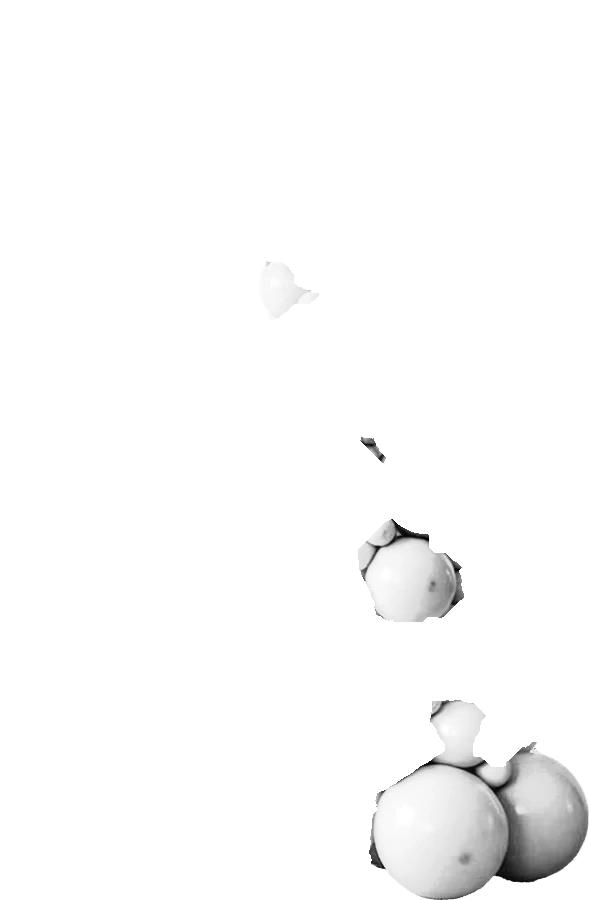
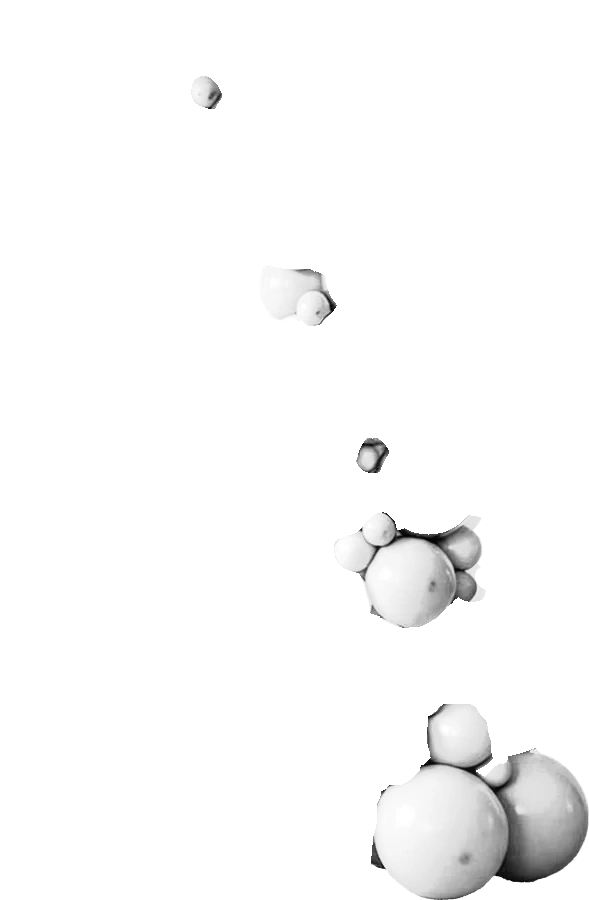
Welcome board: her A1 board as the default, a cleaner garland in any colours
- Default board: A1, rectangle, plain white, the handwritten name (Sacramento),
  a balloon garland on an easel, "Birthday Party" underneath (AED 470).
- Garland split by hand-placed balloons, so each balloon is one colour (no
  puzzle pieces); white balloons keep a soft shine instead of flat white
  patches; paler colours get softer shade; near-duplicate theme colours
  (Ice Princess's two whites) count once.

diff --git a/scripts/welcome/garland-split.ts b/scripts/welcome/garland-split.ts
@@ -15,12 +15,30 @@ const MANIFEST = "lib/studio/welcomePieces.json";
 export const LAYERS = ["white", "pink", "blue", "lilac", "chrome"] as const;
 /** Where a latex balloon's own colour sits in its grey layer: lighter is its shine, darker its shade. */
 const BODY = 0.86;
-/** How sharp a change in colour is a balloon's outline (summed Sobel over R, G and B). */
-const EDGE = +(process.env.EDGE ?? 45);
-/** How far (px) both balloons must rise above the neck between them to stay apart. */
-const NECK = +(process.env.NECK ?? 4);
 /** The chrome balls in the photo (px: middle, radius). */
 const CHROME: [number, number, number][] = [[265, 63, 18], [255, 126, 44], [369, 275, 44], [372, 391, 47], [428, 484, 50]];
+type Latex = Exclude<(typeof LAYERS)[number], "chrome">;
+/** The latex balloons in the photo, by hand (px: middle, radius, colour; "front": in front of all it overlaps). */
+const BALLOONS: [number, number, number, Latex, "front"?][] = [
+  // The top, left to right.
+  [42, 86, 47, "white"], [96, 135, 37, "white"], [128, 55, 45, "white"], [82, 85, 15, "blue"],
+  [210, 55, 42, "pink"], [171, 133, 42, "pink"], [205, 92, 16, "lilac"],
+  [330, 48, 62, "white"], [296, 90, 16, "blue"], [416, 148, 57, "white"], [460, 215, 14, "white"],
+  // Down the column.
+  [332, 152, 38, "blue"], [286, 177, 17, "blue"], [321, 177, 17, "blue"], [362, 192, 32, "white"],
+  [258, 193, 38, "blue"], [298, 231, 41, "blue"], [436, 258, 42, "pink"], [290, 290, 30, "lilac"],
+  [315, 310, 16, "lilac"], [339, 331, 19, "pink"], [296, 355, 40, "pink"], [371, 338, 13, "pink"],
+  [436, 340, 50, "white"], [472, 413, 52, "blue"], [433, 411, 14, "blue"], [300, 430, 35, "white"],
+  [325, 431, 15, "pink"], [341, 451, 16, "pink"], [369, 459, 12, "lilac"], [290, 483, 18, "blue"],
+  [336, 500, 39, "blue"], [392, 505, 22, "blue"], [378, 529, 17, "lilac"], [355, 550, 20, "lilac"],
+  [466, 550, 18, "lilac"], [410, 580, 45, "lilac"], [300, 575, 40, "pink"], [336, 600, 31, "white"],
+  [470, 585, 15, "lilac"], [480, 580, 10, "white"],
+  // The foot.
+  [452, 655, 52, "pink"], [505, 710, 42, "pink"], [377, 656, 38, "white"], [327, 646, 17, "pink"],
+  [300, 683, 52, "blue"], [424, 697, 17, "blue"], [381, 740, 46, "blue"], [463, 735, 35, "lilac"],
+  [493, 770, 18, "pink"], [248, 783, 76, "white"], [305, 812, 72, "pink", "front"], [441, 833, 67, "lilac"],
+  [535, 818, 62, "lilac"],
+];
 
 (async () => {
   const { data, info } = await sharp(path.join(OUT, "garland-pastel.webp")).ensureAlpha().raw().toBuffer({ resolveWithObject: true });
@@ -44,95 +62,49 @@ const CHROME: [number, number, number][] = [[265, 63, 18], [255, 126, 44], [369,
     else if (hue >= 238 && hue < 330) label[i] = 3;
     else label[i] = 0;
   }
-  // Tidied: each point takes the group most of its neighbours are in (a balloon is one colour throughout).
-  const M = 14, tidy = new Int8Array(N).fill(-1);
+  // Tidied a little: each point takes the group most of its near neighbours are in (shade and shine read
+  // as other colours point by point).
+  const M = 5, tidy = new Int8Array(N).fill(-1);
   for (let y = 0; y < H; y++) for (let x = 0; x < W; x++) {
     const i = y * W + x;
-    if (label[i] < 0) continue;
-    if (label[i] === 4) { tidy[i] = 4; continue; }
-    const votes = [0, 0, 0, 0, 0];
-    for (let dy = -M; dy <= M; dy += 2) for (let dx = -M; dx <= M; dx += 2) {
-      if (dx * dx + dy * dy > M * M) continue;
+    if (label[i] < 0 || label[i] === 4) { tidy[i] = label[i]; continue; }
+    const votes = [0, 0, 0, 0];
+    for (let dy = -M; dy <= M; dy++) for (let dx = -M; dx <= M; dx++) {
       const xx = x + dx, yy = y + dy;
-      if (xx < 0 || yy < 0 || xx >= W || yy >= H) continue;
+      if (dx * dx + dy * dy > M * M || xx < 0 || yy < 0 || xx >= W || yy >= H) continue;
       const k = label[yy * W + xx]; if (k >= 0 && k < 4) votes[k]++;
     }
-    tidy[i] = votes.indexOf(Math.max(...votes)) as number;
+    tidy[i] = votes.indexOf(Math.max(...votes));
   }
-  // Then one colour for each balloon (tinted strongly, a balloon in two colours showed as a puzzle piece):
-  // the balloons are the patches between the photo's outlines, each taking the colour most of it has; the
-  // outlines themselves the colour of the balloon beside them.
-  const soft = await sharp(path.join(OUT, "garland-pastel.webp")).removeAlpha().blur(1.2).raw().toBuffer();
-  const edge = new Uint8Array(N);
-  for (let y = 1; y < H - 1; y++) for (let x = 1; x < W - 1; x++) {
-    let g = 0;
-    for (let c = 0; c < 3; c++) {
-      const at = (dx: number, dy: number) => soft[((y + dy) * W + x + dx) * 3 + c];
-      const gx = at(1, -1) + 2 * at(1, 0) + at(1, 1) - at(-1, -1) - 2 * at(-1, 0) - at(-1, 1);
-      const gy = at(-1, 1) + 2 * at(0, 1) + at(1, 1) - at(-1, -1) - 2 * at(0, -1) - at(1, -1);
-      g += Math.hypot(gx, gy);
-    }
-    edge[y * W + x] = g > EDGE ? 1 : 0;
-  }
-  // Touching balloons whose outline is too soft to find still meet at a narrow neck: each patch is split
-  // there (a watershed of how far each point is from the patch's edge), one piece for each balloon.
-  const inside = (i: number) => !edge[i] && tidy[i] >= 0 && tidy[i] !== 4 && data[i * 4 + 3] >= 128;
-  const dist = new Float32Array(N);
-  for (let i = 0; i < N; i++) dist[i] = inside(i) ? 1e9 : 0;
-  const pass = (order: number[], steps: [number, number, number][]) => {
-    for (const i of order) {
-      if (!dist[i]) continue;
-      const x = i % W, y = (i - x) / W;
-      for (const [dx, dy, c] of steps) {
-        const xx = x + dx, yy = y + dy;
-        if (xx >= 0 && yy >= 0 && xx < W && yy < H) dist[i] = Math.min(dist[i], dist[yy * W + xx] + c);
-      }
-    }
-  };
-  const all = Array.from({ length: N }, (_, i) => i);
-  pass(all, [[-1, 0, 1], [0, -1, 1], [-1, -1, 1.414], [1, -1, 1.414]]);
-  pass(all.reverse(), [[1, 0, 1], [0, 1, 1], [1, 1, 1.414], [-1, 1, 1.414]]);
-  // Flooded from the deepest points down; two pieces meeting stay apart when both rise well above the neck.
-  const region = new Int32Array(N).fill(-1), peak: number[] = [], parent: number[] = [];
-  const root = (a: number): number => (parent[a] === a ? a : (parent[a] = root(parent[a])));
-  const byDepth = all.filter(inside).sort((a, b) => dist[b] - dist[a]);
-  for (const i of byDepth) {
-    const x = i % W, near = new Set<number>();
-    for (const j of [x > 0 ? i - 1 : -1, x < W - 1 ? i + 1 : -1, i - W, i + W]) if (j >= 0 && j < N && region[j] >= 0) near.add(root(region[j]));
-    if (!near.size) { region[i] = peak.length; parent.push(peak.length); peak.push(dist[i]); continue; }
-    const pieces = Array.from(near).sort((a, b) => peak[b] - peak[a]);
-    region[i] = pieces[0];
-    for (const other of pieces.slice(1)) if (peak[other] - dist[i] < NECK) parent[other] = pieces[0];
-  }
-  const sizes = new Map<number, number>(), votesOf = new Map<number, number[]>();
-  for (const i of byDepth) {
-    const r = root(region[i]); region[i] = r;
-    sizes.set(r, (sizes.get(r) ?? 0) + 1);
-    const v = votesOf.get(r) ?? [0, 0, 0, 0]; v[tidy[i]]++; votesOf.set(r, v);
-  }
-  if (process.env.REGIONS) {
-    const map = Buffer.alloc(N * 3, 200);
-    for (const i of byDepth) { const r = region[i] * 2654435761; map[i * 3] = r & 255; map[i * 3 + 1] = (r >> 8) & 255; map[i * 3 + 2] = (r >> 16) & 255; }
-    await sharp(map, { raw: { width: W, height: H, channels: 3 } }).png().toFile(process.env.REGIONS);
-  }
+  // Then each balloon one colour throughout (found point by point, a balloon came out in two colours, a
+  // puzzle piece once tinted): every latex balloon in the photo by hand, a circle with its colour. A point
+  // in a colour goes to the balloon over it in that colour (the one it is deepest inside); a point with next
+  // to no colour (white, or any balloon's shine) to the one it is deepest inside; a point under none to the
+  // nearest.
   const final = new Int8Array(N).fill(-1);
   for (let i = 0; i < N; i++) {
-    if (tidy[i] === 4) final[i] = 4;
-    else if (region[i] >= 0 && sizes.get(region[i])! >= 60) { const v = votesOf.get(region[i])!; final[i] = v.indexOf(Math.max(...v)); }
+    if (tidy[i] < 0 || tidy[i] === 4) { final[i] = tidy[i]; continue; }
+    const x = i % W, y = (i - x) / W;
+    let best = -1, bestD = Infinity, own = -1, ownD = Infinity, near = -1, nearD = Infinity;
+    const front = BALLOONS.findIndex(([cx, cy, r, , f]) => f && Math.hypot(x - cx, y - cy) < r);
+    if (front >= 0) { final[i] = LAYERS.indexOf(BALLOONS[front][3]); continue; }
+    BALLOONS.forEach(([cx, cy, r, k], n) => {
+      const d = Math.hypot(x - cx, y - cy) / r;
+      if (d - 1 < nearD) { nearD = d - 1; near = n; }
+      if (d > 1.06) return;
+      if (d < bestD) { bestD = d; best = n; }
+      if (tidy[i] > 0 && LAYERS.indexOf(k) === tidy[i] && d < ownD) { ownD = d; own = n; }
+    });
+    const pick = own >= 0 ? own : best >= 0 ? best : near;
+    final[i] = LAYERS.indexOf(BALLOONS[pick][3]);
   }
-  // The outlines and crumbs: from the nearest balloon, growing outwards a ring at a time.
-  for (let ring = 0, open = true; open && ring < 40; ring++) {
-    open = false;
-    const grown = final.slice();
-    for (let i = 0; i < N; i++) {
-      if (final[i] >= 0 || tidy[i] < 0) continue;
-      const x = i % W;
-      for (const j of [x > 0 ? i - 1 : -1, x < W - 1 ? i + 1 : -1, i - W, i + W]) if (j >= 0 && j < N && final[j] >= 0 && final[j] < 4) { grown[i] = final[j]; break; }
-      if (grown[i] < 0) open = true;
-    }
-    final.set(grown);
+  if (process.env.REGIONS) {
+    const tone = [[245, 237, 214], [239, 68, 68], [37, 99, 235], [31, 41, 55], [160, 160, 160]];
+    const map = Buffer.alloc(N * 3, 220);
+    for (let i = 0; i < N; i++) if (final[i] >= 0) tone[final[i]].forEach((v, c) => (map[i * 3 + c] = Math.round(v * (0.55 + 0.45 * lum[i]))));
+    await sharp(map, { raw: { width: W, height: H, channels: 3 } }).png().toFile(process.env.REGIONS);
   }
-  for (let i = 0; i < N; i++) if (tidy[i] >= 0) tidy[i] = final[i] >= 0 ? final[i] : tidy[i];
+  for (let i = 0; i < N; i++) tidy[i] = final[i];
   const manifest = JSON.parse(readFileSync(MANIFEST, "utf8")) as Record<string, unknown>;
   for (let k = 0; k < LAYERS.length; k++) {
     const own: number[] = [];

diff --git a/tests/unit/party-parts.test.ts b/tests/unit/party-parts.test.ts
@@ -55,21 +55,22 @@ describe("the grown-ups' table", () => {
 describe("the welcome board", () => {
   it("prices the size, an acrylic board and the easel", () => {
     const b = defaultWelcomeBoard(frozen);
-    expect(welcomePriceLines(b)).toEqual([{ label: "Welcome board, Medium 70 × 100 cm", amount: 250 }, { label: "Easel", amount: 40 }]);
-    expect(welcomeTotal({ ...b, size: "large", material: "acrylic", stand: "none" })).toBe(320 + 150);
+    // Her A1 board with a balloon garland first (2026-11-01).
+    expect(welcomePriceLines(b)).toEqual([{ label: "Welcome board, A1 60 × 84 cm", amount: 180 }, { label: "Easel", amount: 40 }, { label: "Balloon garland on the board", amount: 250 }]);
+    expect(welcomeTotal({ ...b, size: "large", material: "acrylic", stand: "none", garnish: "none" })).toBe(320 + 150);
     expect(welcomePriceLines({ ...b, enabled: false })).toEqual([]);
-    expect(priceBreakdown({ ...base(), welcomeBoard: b }).total).toBe(priceBreakdown(base()).total + 290);
+    expect(priceBreakdown({ ...base(), welcomeBoard: b }).total).toBe(priceBreakdown(base()).total + 470);
   });
   it("balloons or flowers on the board add their price; a round board is as tall as it is wide", () => {
-    const b = defaultWelcomeBoard(frozen);
-    expect(b.garnish).toBe("none");
+    const b = { ...defaultWelcomeBoard(frozen), size: "medium", garnish: "none" as const };
+    expect(defaultWelcomeBoard(frozen)).toMatchObject({ shape: "rectangle", design: "plain", colour: "#FFFFFF", font: "sacramento", garnish: "balloons", line: "Birthday Party" });
     expect(welcomePriceLines({ ...b, garnish: "both" })).toContainEqual({ label: "Balloons & flowers on the board", amount: 380 });
     expect(welcomeTotal({ ...b, garnish: "balloons" })).toBe(welcomeTotal(b) + 250);
     expect(welcomeTotal({ ...b, garnish: "flowers" })).toBe(welcomeTotal(b) + 180);
     expect(boardFace({ size: "medium", shape: "round" })).toEqual({ w: 70, h: 70, note: "Ø 70 cm" });
     expect(welcomePriceLines({ ...b, shape: "round" })[0]).toEqual({ label: "Welcome board, round Ø 70 cm", amount: 250 });
     expect(readWelcomeBoard({ shape: "round", garnish: "both" }, frozen)).toMatchObject({ shape: "round", garnish: "both" });
-    expect(readWelcomeBoard({ garnish: "fireworks" }, frozen)!.garnish).toBe("none");
+    expect(readWelcomeBoard({ garnish: "fireworks" }, frozen)!.garnish).toBe("balloons");
   });
   it("the words never run into each other: stacked with a gap, a line too wide made smaller (2026-10-31)", () => {
     const space = { y0: 20, y1: 90, maxW: 56 };
@@ -103,7 +104,7 @@ describe("the welcome board", () => {
     expect(cleanBoardText("<b>Arya's</b>   party")).toBe("bArya'sb party");
     expect(cleanBoardText("x".repeat(80))).toHaveLength(30);
     const b = readWelcomeBoard({ size: "huge", shape: "star", design: "plain", colour: "#123456", name: "Arya's", font: "comic", textColor: "blue" }, frozen)!;
-    expect(b).toMatchObject({ size: "medium", shape: "arch", design: "plain", colour: "#123456", name: "Arya's", font: "birthstone-bounce", garnish: "none" });
+    expect(b).toMatchObject({ size: "a1", shape: "rectangle", design: "plain", colour: "#123456", name: "Arya's", font: "sacramento", garnish: "balloons" });
     expect(b.textColor).toBeUndefined();
   });
 });
@@ -129,6 +130,8 @@ describe("the welcome board's photo pieces", () => {
     expect(Object.values(frozen.latex).every((c) => themeById("frozen")!.balloonColors.includes(c))).toBe(true);
     expect(frozen.latex.white).toMatch(/^#(FFFFFF|F0F4F8)$/);
     expect(frozen.chrome).toBeNull();
+    // Its white and its ice white are one colour: once white, not half the garland (2026-11-01).
+    expect(Object.values(frozen.latex).filter((c) => c === "#FFFFFF" || c === "#F0F4F8")).toHaveLength(1);
     // The theme's pastels where the photo has them.
     expect(garlandColours(["#FFFFFF", "#F8BBD0", "#BAE6FD", "#DDD6FE"]).latex).toEqual({ white: "#FFFFFF", pink: "#F8BBD0", blue: "#BAE6FD", lilac: "#DDD6FE" });
     // The customer's own picks: every colour used, a short list going round again; gold chrome when picked.

diff --git a/tests/e2e/table-step.spec.ts b/tests/e2e/table-step.spec.ts
@@ -161,7 +161,12 @@ test("W1 the welcome board: words and lettering drawn live, priced, Finish goes 
   await page.getByTestId("welcome-line").fill("6th Birthday");
   await expect(board).toContainText("Arya's");
   await expect(board).toContainText("6TH BIRTHDAY");
-  // Painted corners first (2026-10-31, the owner's Frozen example), the theme's art, or a plain colour.
+  // Her board first (2026-11-01): plain white, the handwritten name, a balloon garland; painted corners, the
+  // theme's art, or a plain colour.
+  await expect(board.locator("[data-part=painted-corners]")).toHaveCount(0);
+  await expect(board.locator("[data-part=garland]")).toHaveCount(1);
+  await expect(page.getByTestId("welcome-font").getByRole("radio", { name: /Handwritten/ })).toHaveAttribute("aria-checked", "true");
+  await page.getByRole("radiogroup", { name: "Board design" }).getByRole("radio", { name: /Painted corners/ }).click();
   await expect(board.locator("[data-part=painted-corners]")).toHaveCount(1);
   await page.getByRole("radiogroup", { name: "Board design" }).getByRole("radio", { name: /Watercolour/ }).click();
   await expect(board.locator("[data-part=art]")).toHaveAttribute("href", "/design/table/placemats/frozen/watercolour.webp");
@@ -172,7 +177,7 @@ test("W1 the welcome board: words and lettering drawn live, priced, Finish goes 
   expect(aed(await total(page).textContent())).toBe(before + sum);
   await page.getByRole("radiogroup", { name: "Board size" }).getByRole("radio", { name: /Large/ }).click();
   await page.getByTestId("welcome-material").getByRole("radio", { name: /Acrylic/ }).click();
-  expect(aed(await page.getByTestId("welcome-total").locator("b").textContent())).toBe(sum + (320 - 250) + 150);
+  expect(aed(await page.getByTestId("welcome-total").locator("b").textContent())).toBe(sum + (320 - 180) + 150);
   // Round, and balloons with flowers on it (2026-10-31).
   await page.getByTestId("welcome-shape").getByRole("radio", { name: /Round/ }).click();
   await expect(board).toHaveAttribute("data-shape", "round");
@@ -189,7 +194,7 @@ test("W1 the welcome board: words and lettering drawn live, priced, Finish goes 
   for (const src of await board.locator("image").evaluateAll((l) => Array.from(new Set(l.map((i) => i.getAttribute("href")!))))) {
     expect((await page.request.get(src)).status(), src).toBe(200);
   }
-  expect(aed(await page.getByTestId("welcome-total").locator("b").textContent())).toBe(sum + (320 - 250) + 150 + 380);
+  expect(aed(await page.getByTestId("welcome-total").locator("b").textContent())).toBe(sum + (320 - 180) + 150 + (380 - 250));
   // The words, measured once drawn, never run into each other.
   await page.getByTestId("welcome-name").fill("Maximiliana-Josephine's");
   for (const font of ["Calligraphy", "Classic"]) {
@@ -217,7 +222,7 @@ test("W2 on a phone, a change to the welcome board brings it into sight, and Bac
   await page.getByRole("button", { name: /Yes, design the board/ }).click();
   await page.waitForTimeout(800);
   await expect(page.getByTestId("welcome-back-to-choices")).toHaveCount(0);
-  await page.getByTestId("welcome-garnish").getByRole("radio", { name: /Balloon garland/ }).click();
+  await page.getByTestId("welcome-garnish").getByRole("radio", { name: /Just the board/ }).click();
   await expect(page.getByTestId("welcome-preview").getByRole("img", { name: "Your welcome board" })).toBeInViewport();
   await page.getByTestId("welcome-back-to-choices").click();
   await expect(page.getByTestId("welcome-garnish")).toBeInViewport();

diff --git a/components/studio/WelcomeBoardArt.tsx b/components/studio/WelcomeBoardArt.tsx
@@ -235,14 +235,21 @@ function Roses({ x, y, width, turn, mirror }: { x: number; y: number; width: num
  * A garland layer (grey light and shade, its balloons' own colour at BODY) in a colour: multiplied by it, its
  * shine kept white. `grey` first takes the colour out (the chrome, photographed with the room's tints in it).
  */
+/** How light a balloon's own colour may be, its shine above it (the photo's white balloons are at 0.88). */
+const MAX_BODY = 0.88;
 function GarlandTint({ id, colour, gain = 1 / 0.86, grey }: { id: string; colour: string; gain?: number; grey?: boolean }) {
   // How white its shine goes: a dark balloon's shine is small (whitened as much as a pale one's, it went grey).
-  const [r, g, b] = rgb(colour), a = (0.55 / 0.14) * (0.25 + (0.75 * (0.3 * r + 0.59 * g + 0.11 * b)) / 255);
+  const [r, g, b] = rgb(colour), lum = (0.3 * r + 0.59 * g + 0.11 * b) / 255, a = (0.55 / 0.14) * (0.25 + 0.75 * lum);
+  // A white or near-white balloon is photographed a little grey, its shine the only white (at white itself,
+  // a balloon's whole lit half was flat white, with a hard edge).
+  const k = Math.min(1, MAX_BODY / Math.max(lum, 0.01)), body = `rgb(${[r, g, b].map((v) => Math.round(v * k)).join(",")})`;
+  // And its shade softer: a pale balloon's shadows as deep as a lilac one's read as grey, or as silver.
+  const soft = grey ? 1 : 1 - 0.35 * Math.min(1, Math.max(0, (lum - 0.6) / 0.35)), m = gain * soft, o = gain * (1 - soft) * 0.86;
   return (
     <filter id={id} x="0" y="0" width="100%" height="100%" colorInterpolationFilters="sRGB">
       {grey && <feColorMatrix in="SourceGraphic" type="saturate" values="0" result="src" />}
-      <feColorMatrix in={grey ? "src" : "SourceGraphic"} type="matrix" values={`${gain} 0 0 0 0 0 ${gain} 0 0 0 0 0 ${gain} 0 0 0 0 0 1 0`} result="lit" />
-      <feFlood floodColor={colour} result="c" />
+      <feColorMatrix in={grey ? "src" : "SourceGraphic"} type="matrix" values={`${f3(m)} 0 0 0 ${f3(o)} 0 ${f3(m)} 0 0 ${f3(o)} 0 0 ${f3(m)} 0 ${f3(o)} 0 0 0 1 0`} result="lit" />
+      <feFlood floodColor={grey ? colour : body} result="c" />
       <feComposite in="c" in2="lit" operator="arithmetic" k1={1} k2={0} k3={0} k4={0} result="t" />
       {/* Its shine: lighter than the balloon's own colour, a little whiter, smoothly (a sharp cut showed as pale patches). */}
       <feColorMatrix in={grey ? "src" : "SourceGraphic"} type="matrix" values={`0 0 0 0 1 0 0 0 0 1 0 0 0 0 1 ${f3(0.299 * a)} ${f3(0.587 * a)} ${f3(0.114 * a)} 0 ${f3(-0.86 * a)}`} result="hi" />

diff --git a/lib/studio/welcomeBoard.ts b/lib/studio/welcomeBoard.ts
@@ -86,11 +86,13 @@ export function cleanBoardText(v: unknown): string {
   return v.replace(/[\u0000-\u001f<>{}[\]\\/"`$^*=|~#%@+;:_]/g, "").replace(/\s+/g, " ").slice(0, MAX_BOARD_TEXT);
 }
 
-export function defaultWelcomeBoard(theme: { backdropColors: string[]; accent: string }): WelcomeBoard {
+// 2026-11-01 (owner, of her A1 board — rectangle, plain white, the handwritten name, a balloon garland,
+// "Birthday Party" under it: "default bu yazıtipi ve bu şekil vs gelsin").
+export function defaultWelcomeBoard(_theme: { backdropColors: string[]; accent: string }): WelcomeBoard {
   return {
-    enabled: true, size: "medium", shape: "arch", design: "corners",
-    colour: theme.backdropColors[0] ?? "#FFFFFF", material: "foam", stand: "easel", garnish: "none",
-    heading: "Welcome to", name: "", line: "", font: "birthstone-bounce",
+    enabled: true, size: "a1", shape: "rectangle", design: "plain",
+    colour: "#FFFFFF", material: "foam", stand: "easel", garnish: "balloons",
+    heading: "Welcome to", name: "", line: "Birthday Party", font: "sacramento",
   };
 }
 

diff --git a/lib/studio/welcomeGarland.ts b/lib/studio/welcomeGarland.ts
@@ -39,7 +39,9 @@ const far = (a: string, b: string) => { const x = rgb(a), y = rgb(b); return 2 *
  */
 export function garlandColours(colours: string[]): { latex: Record<GarlandLayer, string>; chrome: string | null } {
   const valid = colours.filter((c) => /^#[0-9a-f]{6}$/i.test(c));
-  let latex = valid.filter((c) => balloonLook(c) === "latex");
+  // Two all but the same colours (Ice Princess's white and its ice white) are one: twice white, half the
+  // garland came out white, its shaded balloons grey.
+  let latex = valid.filter((c, i) => balloonLook(c) === "latex" && !valid.slice(0, i).some((o) => balloonLook(o) === "latex" && far(o, c) < 2000));
   const gold = valid.find((c) => balloonLook(c) === "gold");
   if (!latex.length) latex = valid.length ? valid : GARLAND_LAYERS.map((l) => l.photo);
   const out = {} as Record<GarlandLayer, string>;
